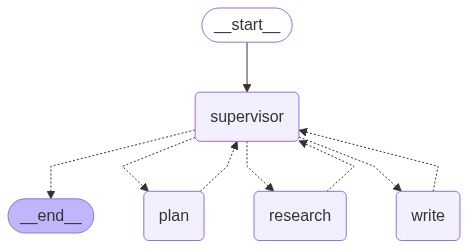
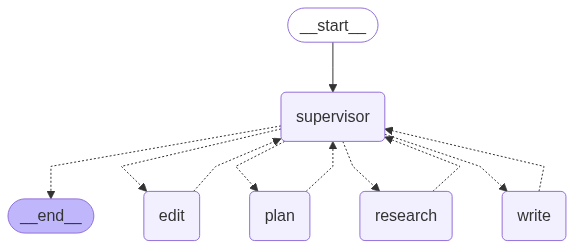
Update README and graph for editor agent addition
README updated to describe the new editor agent and its role in the multi-agent system. Directory structure and agent descriptions revised accordingly. Updated graph.png to reflect the new architecture. Python version in demo.ipynb metadata bumped from 3.12.2 to 3.12.11.

diff --git a/deep_researcher_multi-agent/README.md b/deep_researcher_multi-agent/README.md
@@ -1,7 +1,7 @@
 # 🤖 MultiAgent Research and Report Writing
 
 ## Overview
-This project implements an advanced multi-agent system for automated research and report writing using LangChain and LangGraph. The system comprises three specialized agents working together to research topics, analyze information, and generate comprehensive reports.
+This project implements an advanced multi-agent system for automated research and report writing using LangChain and LangGraph. The system comprises four specialized agents working together to research topics, analyze information, draft a report and generate the final report.
 
 ## System Architecture
 
@@ -18,7 +18,11 @@ This project implements an advanced multi-agent system for automated research an
 3. **📃Writing Agent** (`src/agents/writer.py`)
    - Generates structured writing plans
    - Integrates research findings into coherent sections
-   - Produces well-organized report drafts
+   - Produces well-organized report draft
+
+4. **📑Editor Agent** (`src/agents/editor.py`)
+   - Edits the report draft
+   - Generates final well-structured report
 
 ## Deep Research Multi-Agent Graph
 ![multi_agent_graph](./static/graph.png)
@@ -46,9 +50,9 @@ deep_researcher_multi-agent/
 │   ├── agents/
 │   │   ├── planner.py      # Planning agent implementation
 │   │   ├── researcher.py   # Research agent implementation
-│   │   └── writer.py       # Writing agent implementation
-│   ├── teams/
-│   │   └── planning_team.py # Team orchestration
+│   │   ├── writer.py       # Writing agent implementation
+│   │   └── editor.py       # Editor agent implementation
+│   │
 │   ├── prompts.py          # System prompts
 │   ├── state.py           # State management
 │   ├── utils.py           # Utility functions
